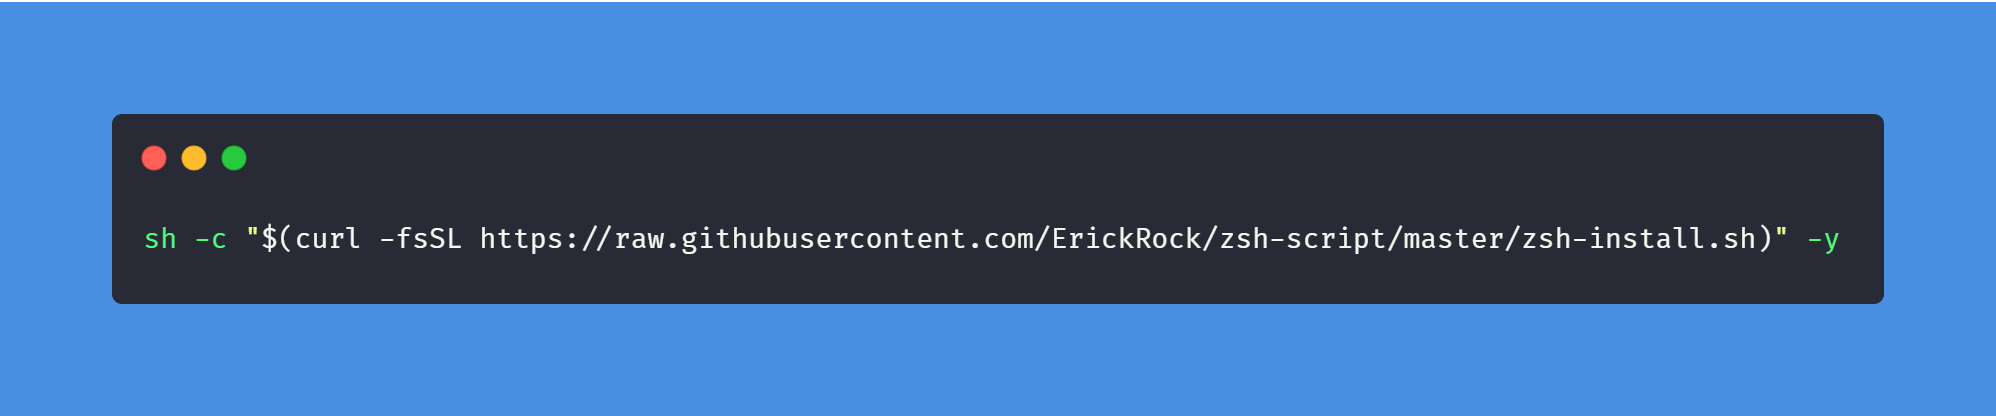
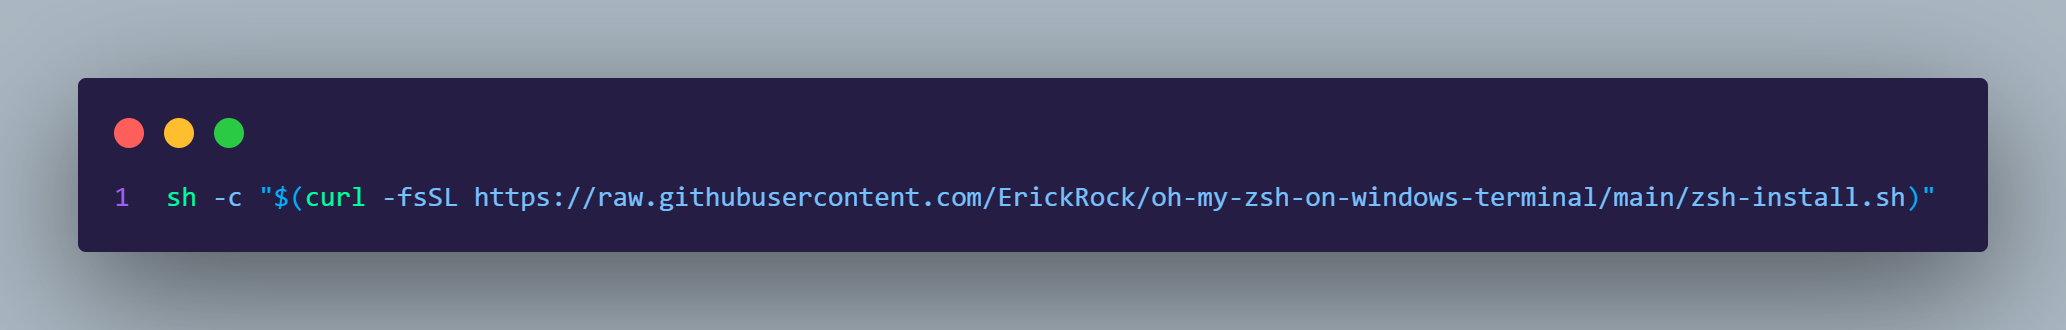
Atualizado o processo CI no GitHub e Azure.

diff --git a/README.md b/README.md
@@ -1,7 +1,8 @@
-![](/.github/fundo.gif)
+<img src="/.github/fundo.gif" alt="fundo" />
 
 # Status e testes
 
+[![CI](https://github.com/ErickRock/oh-my-zsh-on-windows-terminal/actions/workflows/main.yml/badge.svg)](https://github.com/ErickRock/oh-my-zsh-on-windows-terminal/actions/workflows/main.yml)
 [![Build Status](https://dev.azure.com/erickgarciadev/oh-my-zsh-on-windows-terminal/_apis/build/status/ErickRock.oh-my-zsh-on-windows-terminal?branchName=master)](https://dev.azure.com/erickgarciadev/oh-my-zsh-on-windows-terminal/_build/latest?definitionId=9&branchName=master)
 [![GitHub forks](https://img.shields.io/github/forks/ErickRock/oh-my-zsh-on-windows-terminal)](https://github.com/ErickRock/oh-my-zsh-on-windows-terminal/network)
 [![GitHub stars](https://img.shields.io/github/stars/ErickRock/oh-my-zsh-on-windows-terminal)](https://github.com/ErickRock/oh-my-zsh-on-windows-terminal/stargazers)
@@ -93,7 +94,7 @@ Com todo ambiente instalado e configurado, você já pode abrir o Windows Termin
 ## Execute o script de instalação do ZSH
 
 ```bash
-sh -c "$(curl -fsSL https://raw.githubusercontent.com/ErickRock/oh-my-zsh-on-windows-terminal/master/zsh-install.sh)"
+sh -c "$(curl -fsSL https://raw.githubusercontent.com/ErickRock/oh-my-zsh-on-windows-terminal/main/zsh-install.sh)"
 ```
 
 ![](/.github/zshinstall.png)
@@ -107,7 +108,7 @@ Entre com a opção 2 e tecle enter. Feche o terminal no fim do processo e abra 
 ### Execute o script de instalação do ZSH Tools + Pluguins
 
 ```bash
-sh -c "$(curl -fsSL https://raw.githubusercontent.com/ErickRock/oh-my-zsh-on-windows-terminal/master/tools-zsh-install.sh)" -y
+sh -c "$(curl -fsSL https://raw.githubusercontent.com/ErickRock/oh-my-zsh-on-windows-terminal/main/tools-zsh-install.sh)" -y
 ```
 
 ![](/.github/zshtools.png)
@@ -211,3 +212,6 @@ Créditos e links de referência:
 
 - [@DevMozao](https://dev.to/devmozao/pt-br-rodando-oh-my-zsh-no-windows-86c#0-prologo)
 - [Rocketseat](https://blog.rocketseat.com.br/terminal-com-oh-my-zsh-spaceship-dracula-e-mais/)
+
+
+
